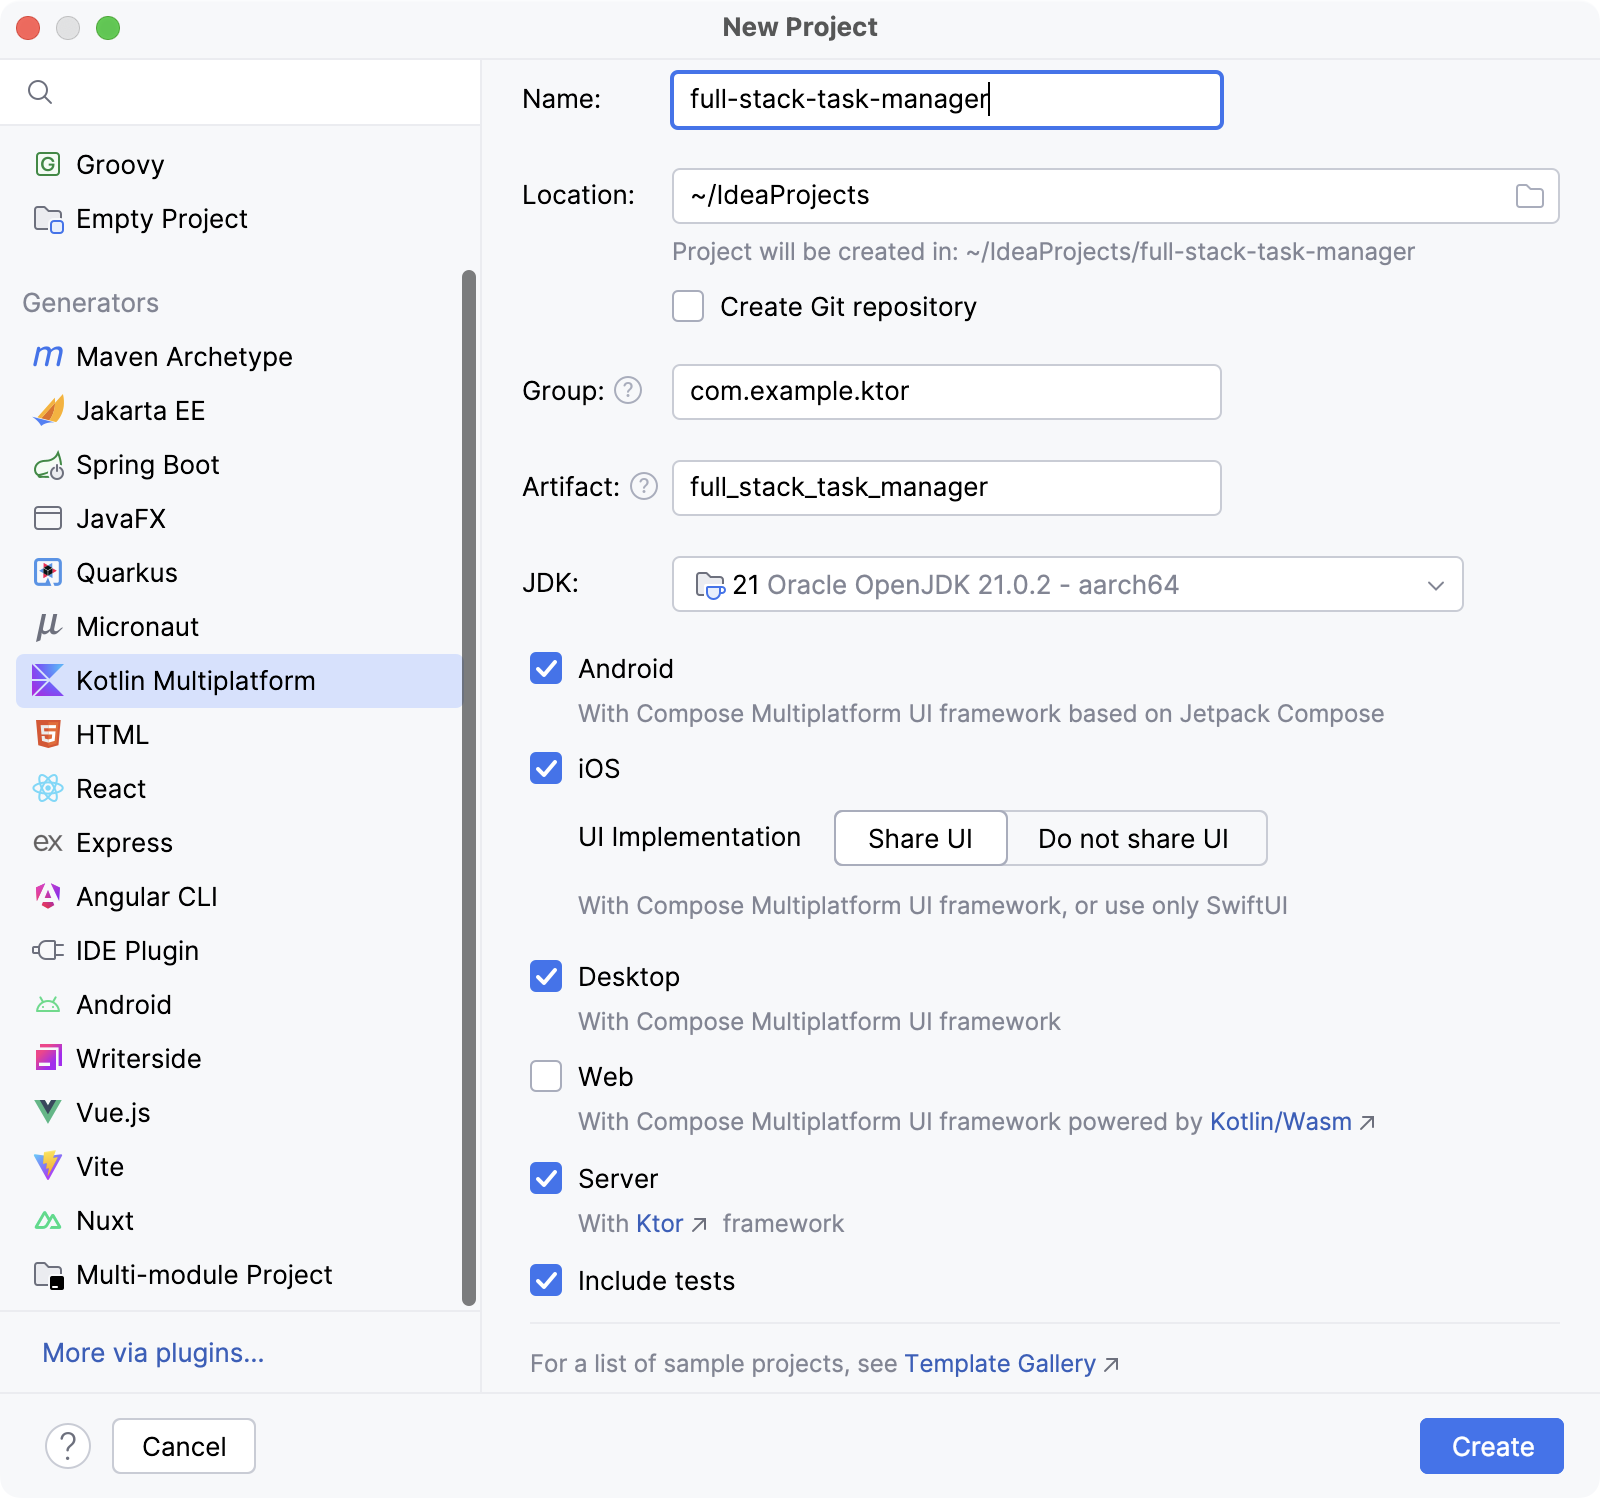
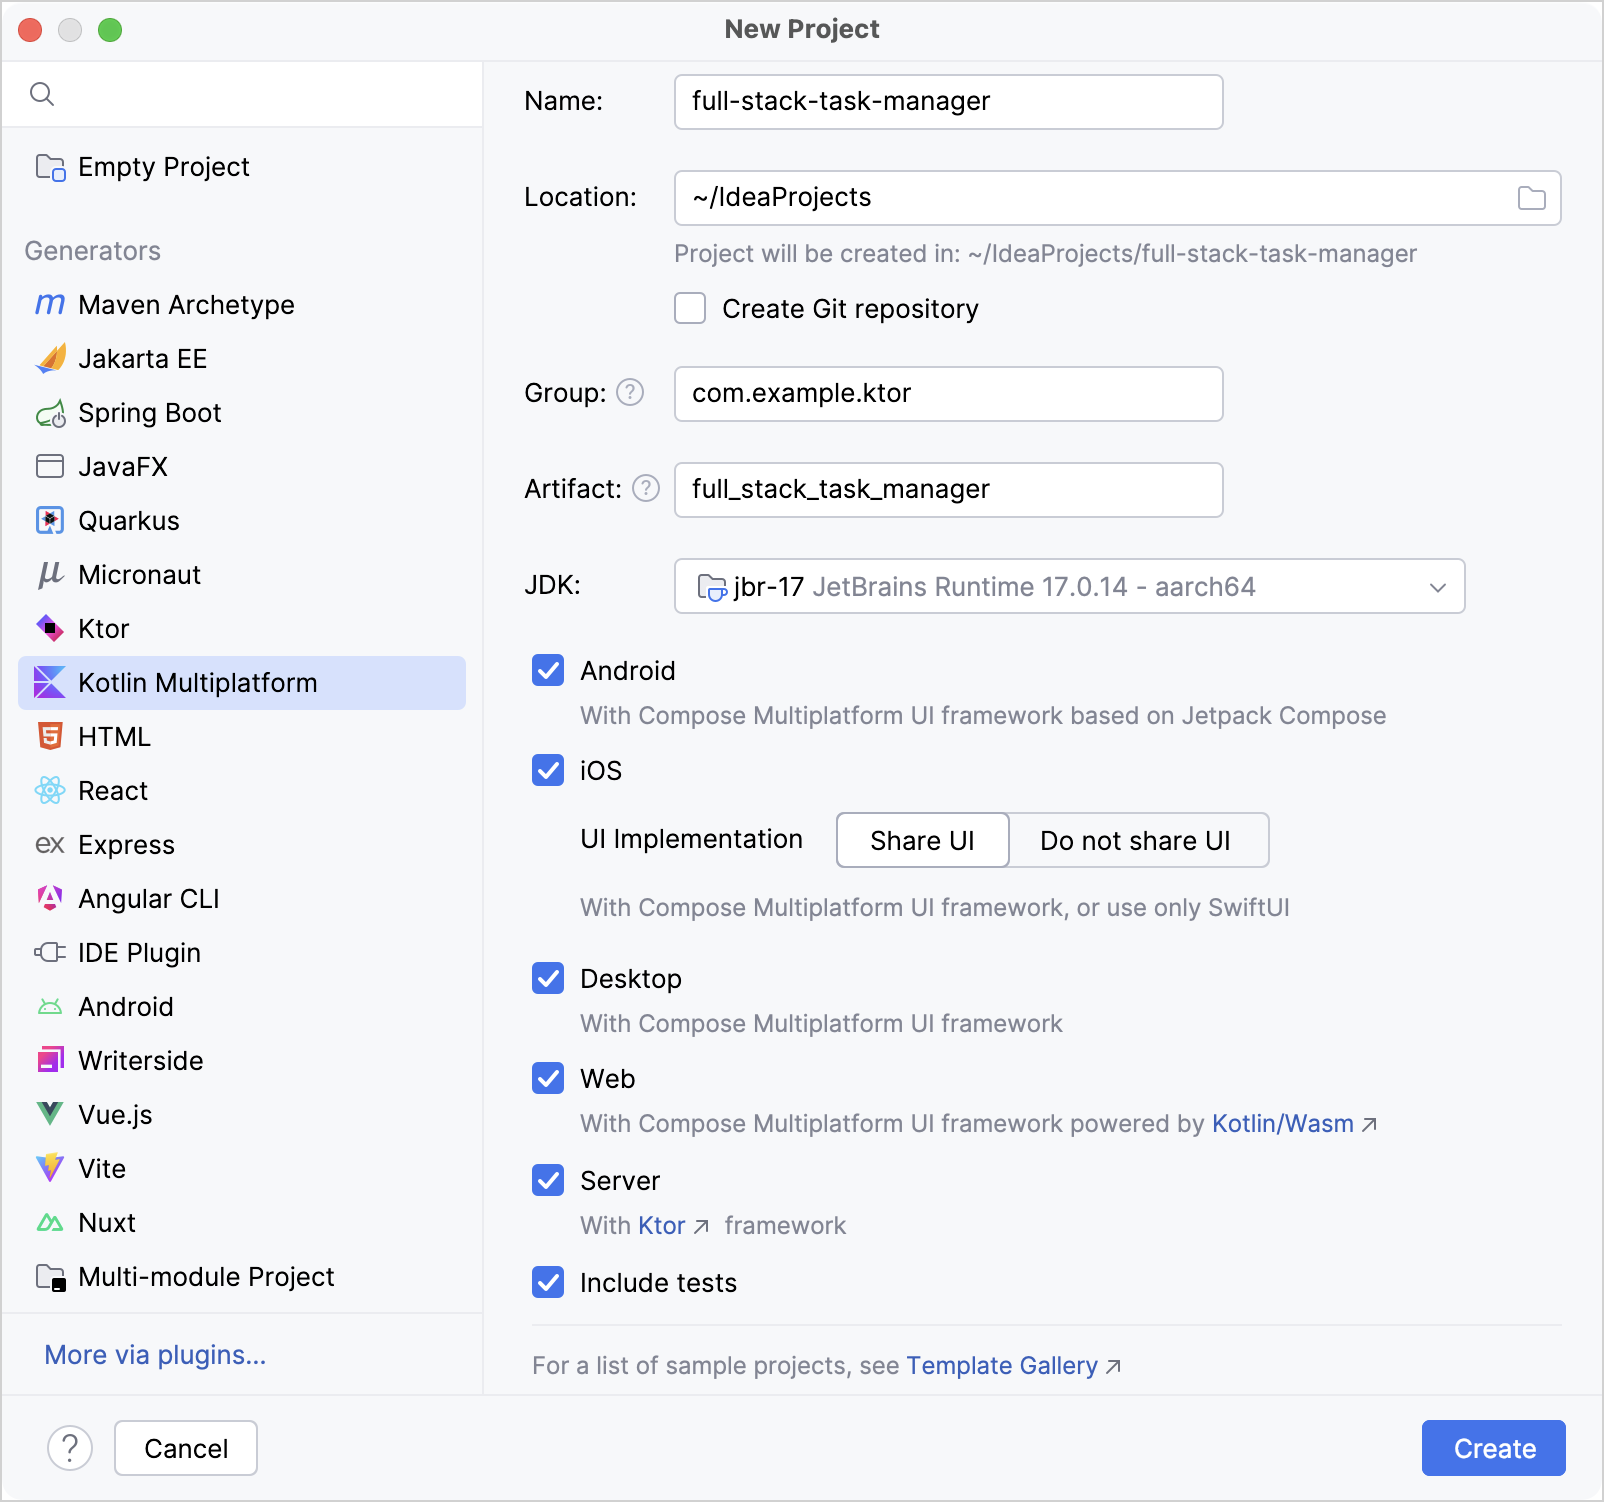
update: adding a Wasm target to the full stack KMP tutorial

diff --git a/codeSnippets/snippets/full-stack-task-manager/composeApp/src/commonMain/kotlin/com/example/ktor/full_stack_task_manager/App_second.kt b/codeSnippets/snippets/full-stack-task-manager/composeApp/src/commonMain/kotlin/com/example/ktor/full_stack_task_manager/App_second.kt
@@ -19,15 +19,11 @@ import androidx.compose.material3.Card
 import androidx.compose.material3.MaterialTheme
 import androidx.compose.material3.OutlinedButton
 import androidx.compose.material3.Text
-import androidx.compose.material3.TextField
-import androidx.compose.material3.TextFieldDefaults
 import androidx.compose.runtime.*
 import androidx.compose.ui.Modifier
-import androidx.compose.ui.graphics.Color
 import androidx.compose.ui.text.font.FontWeight
 import androidx.compose.ui.unit.dp
 import androidx.compose.ui.unit.sp
-import androidx.compose.ui.window.Dialog
 import com.example.ktor.full_stack_task_manager.network.createHttpClient
 import kotlinx.coroutines.launch
 
@@ -38,28 +34,15 @@ fun App() {
         val taskApi = remember { TaskApi(httpClient) }
         var tasks by remember { mutableStateOf(emptyList<Task>()) }
         val scope = rememberCoroutineScope()
-        var currentTask by remember { mutableStateOf<Task?>(null) }
 
         LaunchedEffect(Unit) {
             tasks = taskApi.getAllTasks()
         }
 
-        if (currentTask != null) {
-            UpdateTaskDialog(
-                currentTask!!,
-                onConfirm = {
-                    scope.launch {
-                        taskApi.updateTask(it)
-                        tasks = taskApi.getAllTasks()
-                    }
-                    currentTask = null
-                }
-            )
-        }
-
-        LazyColumn(modifier = Modifier
-            .safeContentPadding()
-            .fillMaxSize()
+        LazyColumn(
+            modifier = Modifier
+                .safeContentPadding()
+                .fillMaxSize()
         ) {
             items(tasks) { task ->
                 TaskCard(
@@ -71,7 +54,6 @@ fun App() {
                         }
                     },
                     onUpdate = {
-                        currentTask = task
                     }
                 )
             }
@@ -108,56 +90,6 @@ fun TaskCard(
                 }
                 Spacer(Modifier.width(8.dp))
                 OutlinedButton(onClick = { onUpdate(task) }) {
-                    Text("Update")
-                }
-            }
-        }
-    }
-}
-
-@Composable
-fun UpdateTaskDialog(
-    task: Task,
-    onConfirm: (Task) -> Unit
-) {
-    var description by remember { mutableStateOf(task.description) }
-    var priorityText by remember { mutableStateOf(task.priority.toString()) }
-    val colors = TextFieldDefaults.colors(
-        focusedTextColor = Color.Blue,
-        focusedContainerColor = Color.White,
-    )
-
-    Dialog(onDismissRequest = {}) {
-        Card(
-            modifier = Modifier.fillMaxWidth().padding(4.dp),
-            shape = RoundedCornerShape(CornerSize(4.dp))
-        ) {
-            Column(modifier = Modifier.padding(10.dp)) {
-                Text("Update ${task.name}", fontSize = 20.sp)
-                TextField(
-                    value = description,
-                    onValueChange = { description = it },
-                    label = { Text("Description") },
-                    colors = colors
-                )
-                TextField(
-                    value = priorityText,
-                    onValueChange = { priorityText = it },
-                    label = { Text("Priority") },
-                    colors = colors
-                )
-                OutlinedButton(onClick = {
-                    val newTask = Task(
-                        task.name,
-                        description,
-                        try {
-                            Priority.valueOf(priorityText)
-                        } catch (e: IllegalArgumentException) {
-                            Priority.Low
-                        }
-                    )
-                    onConfirm(newTask)
-                }) {
                     Text("Update")
                 }
             }

diff --git a/codeSnippets/snippets/full-stack-task-manager/composeApp/src/commonMain/kotlin/com/example/ktor/full_stack_task_manager/App_first.kt b/codeSnippets/snippets/full-stack-task-manager/composeApp/src/commonMain/kotlin/com/example/ktor/full_stack_task_manager/App_first.kt
@@ -1,5 +1,6 @@
 package com.example.ktor.full_stack_task_manager
 
+import TaskApi
 import com.example.ktor.full_stack_task_manager.model.Task
 import androidx.compose.foundation.layout.Column
 import androidx.compose.foundation.layout.fillMaxSize
@@ -10,7 +11,6 @@ import androidx.compose.material3.Text
 import androidx.compose.runtime.*
 import androidx.compose.ui.Alignment
 import androidx.compose.ui.Modifier
-import com.example.ktor.full_stack_task_manager.network.TaskApi
 import com.example.ktor.full_stack_task_manager.network.createHttpClient
 import kotlinx.coroutines.launch
 

diff --git a/codeSnippets/snippets/full-stack-task-manager/server/src/main/kotlin/com/example/ktor/full_stack_task_manager/Application.kt b/codeSnippets/snippets/full-stack-task-manager/server/src/main/kotlin/com/example/ktor/full_stack_task_manager/Application.kt
@@ -27,7 +27,7 @@ fun Application.module() {
     install(CORS) {
         allowHeader(HttpHeaders.ContentType)
         // For ease of demonstration we allow any connections.
-        // Don't do this in production if possible.
+        // Don't do this in production.
         anyHost()
     }
     val repository = InMemoryTaskRepository()
